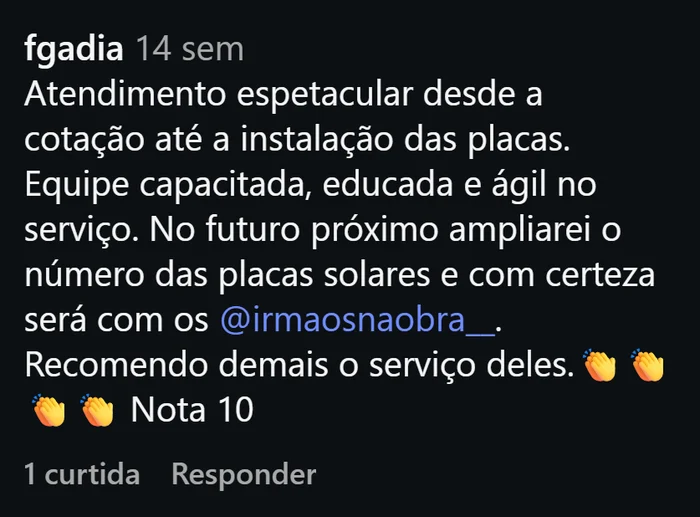
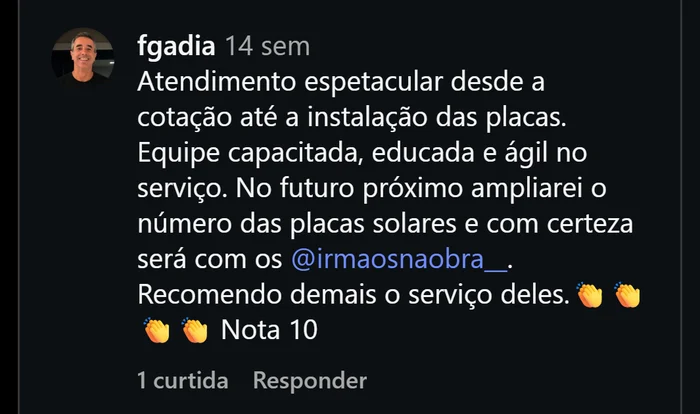
fix(irmaosnaobra): print do Instagram sem a foto do cliente
Os 13 recortes sairam sem avatar nenhum: eu media o elemento que COMECA com o
@, e esse elemento e' so' a coluna de texto — a foto de perfil fica num irmao
a esquerda dele, fora da caixa. O print mostrava nome e comentario e escondia
justamente o rosto, que e' metade do que faz um print valer.

O recorte agora usa a largura da LISTA e nao a do elemento, mais 14px de folga
em cima porque o avatar comeca acima da primeira linha de texto.

Os 13 refeitos. De quebra ficaram menores (43 KB no maior, era 53).

Changed region(s): [[0.03, 0.058, 0.96, 0.8406], [0.03, 0.8986, 0.54, 0.9565]]

diff --git a/dashboard/scripts/build-prints-instagram.js b/dashboard/scripts/build-prints-instagram.js
@@ -18,6 +18,10 @@
  *
  *   node scripts/build-prints-instagram.js
  *
+ * O recorte pega a LARGURA DA LISTA e nao a do elemento do texto: a foto de
+ * perfil do cliente fica num irmao a esquerda, e recortando so' o elemento o
+ * print saia sem o rosto de ninguem.
+ *
  * O @ nao e' marcado na imagem: quem destaca ele e' o site, num rotulo dourado
  * embaixo do print. Escrever em cima de um print e' comecar a editar prova.
  */
@@ -126,7 +130,10 @@ const HANDLES = [
       const l = lista.getBoundingClientRect();
       // so' vale se o comentario couber INTEIRO dentro da lista visivel
       if (r.top < l.top - 1 || r.bottom > l.bottom + 1) return null;
-      return { x: r.x, y: r.y, w: r.width, h: r.height, texto: alvo.innerText.trim() };
+      // x/largura vem da LISTA, nao do elemento: o elemento que comeca com o @
+      // e' so' a coluna de texto, e a foto de perfil fica num irmao a esquerda
+      // dele. Recortando so' o elemento, o print saia sem o rosto do cliente.
+      return { x: l.x, y: r.y, w: l.width, h: r.height, texto: alvo.innerText.trim() };
     }, handle);
     if (!caixa) {
       // comentario alto que nao coube: encosta ele no topo e mede de novo
@@ -157,15 +164,16 @@ const HANDLES = [
         if (!alvo) return null;
         const r = alvo.getBoundingClientRect(), l = lista.getBoundingClientRect();
         if (r.top < l.top - 1 || r.bottom > l.bottom + 1) return null;
-        return { x: r.x, y: r.y, w: r.width, h: r.height };
+        return { x: l.x, y: r.y, w: l.width, h: r.height };
       }, handle);
     }
     if (!caixa) { faltou.push(handle); continue; }
 
     const pad = 10;
+    const padTopo = 14; // o avatar comeca acima da primeira linha de texto
     await p.screenshot({ path: tmp, clip: {
-      x: Math.max(0, caixa.x - pad), y: Math.max(0, caixa.y - pad),
-      width: caixa.w + pad * 2, height: caixa.h + pad * 2 } });
+      x: Math.max(0, caixa.x - pad), y: Math.max(0, caixa.y - padTopo),
+      width: caixa.w + pad * 2, height: caixa.h + padTopo + pad } });
 
     const nome = 'insta-' + handle.replace(/[^a-z0-9]+/gi, '-').toLowerCase() + '.webp';
     await sharp(tmp).resize(700, null, { withoutEnlargement: true })
